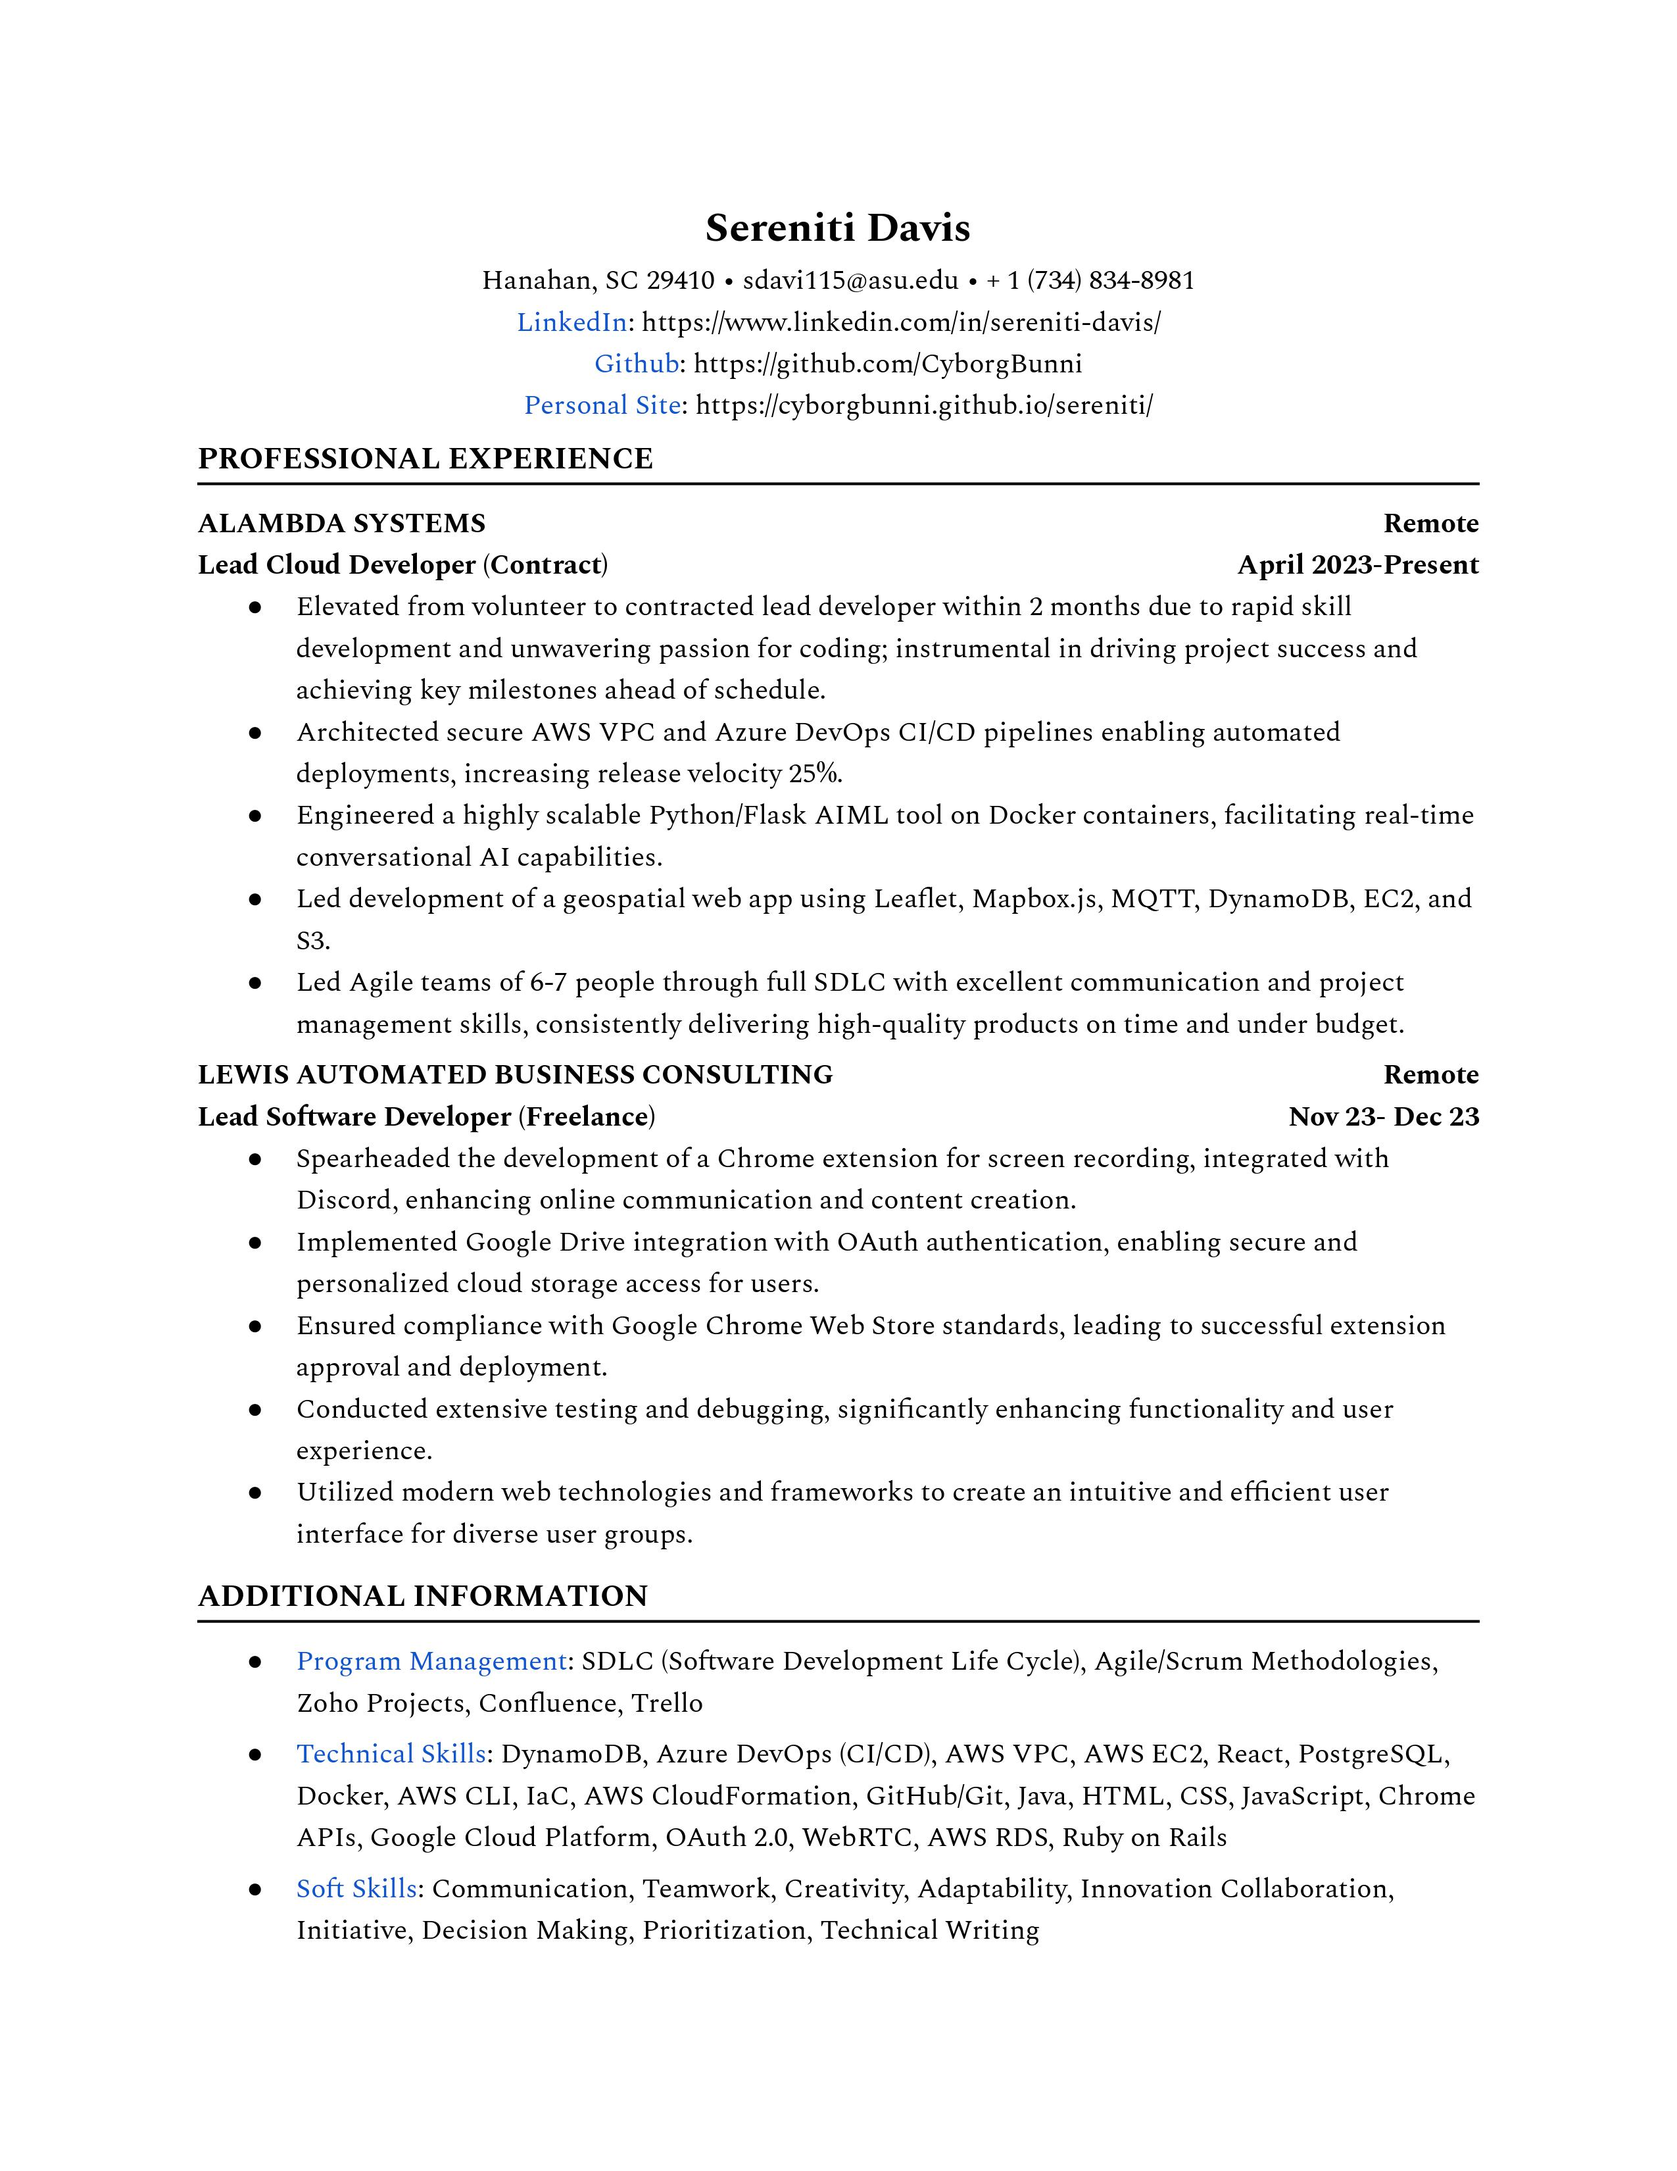
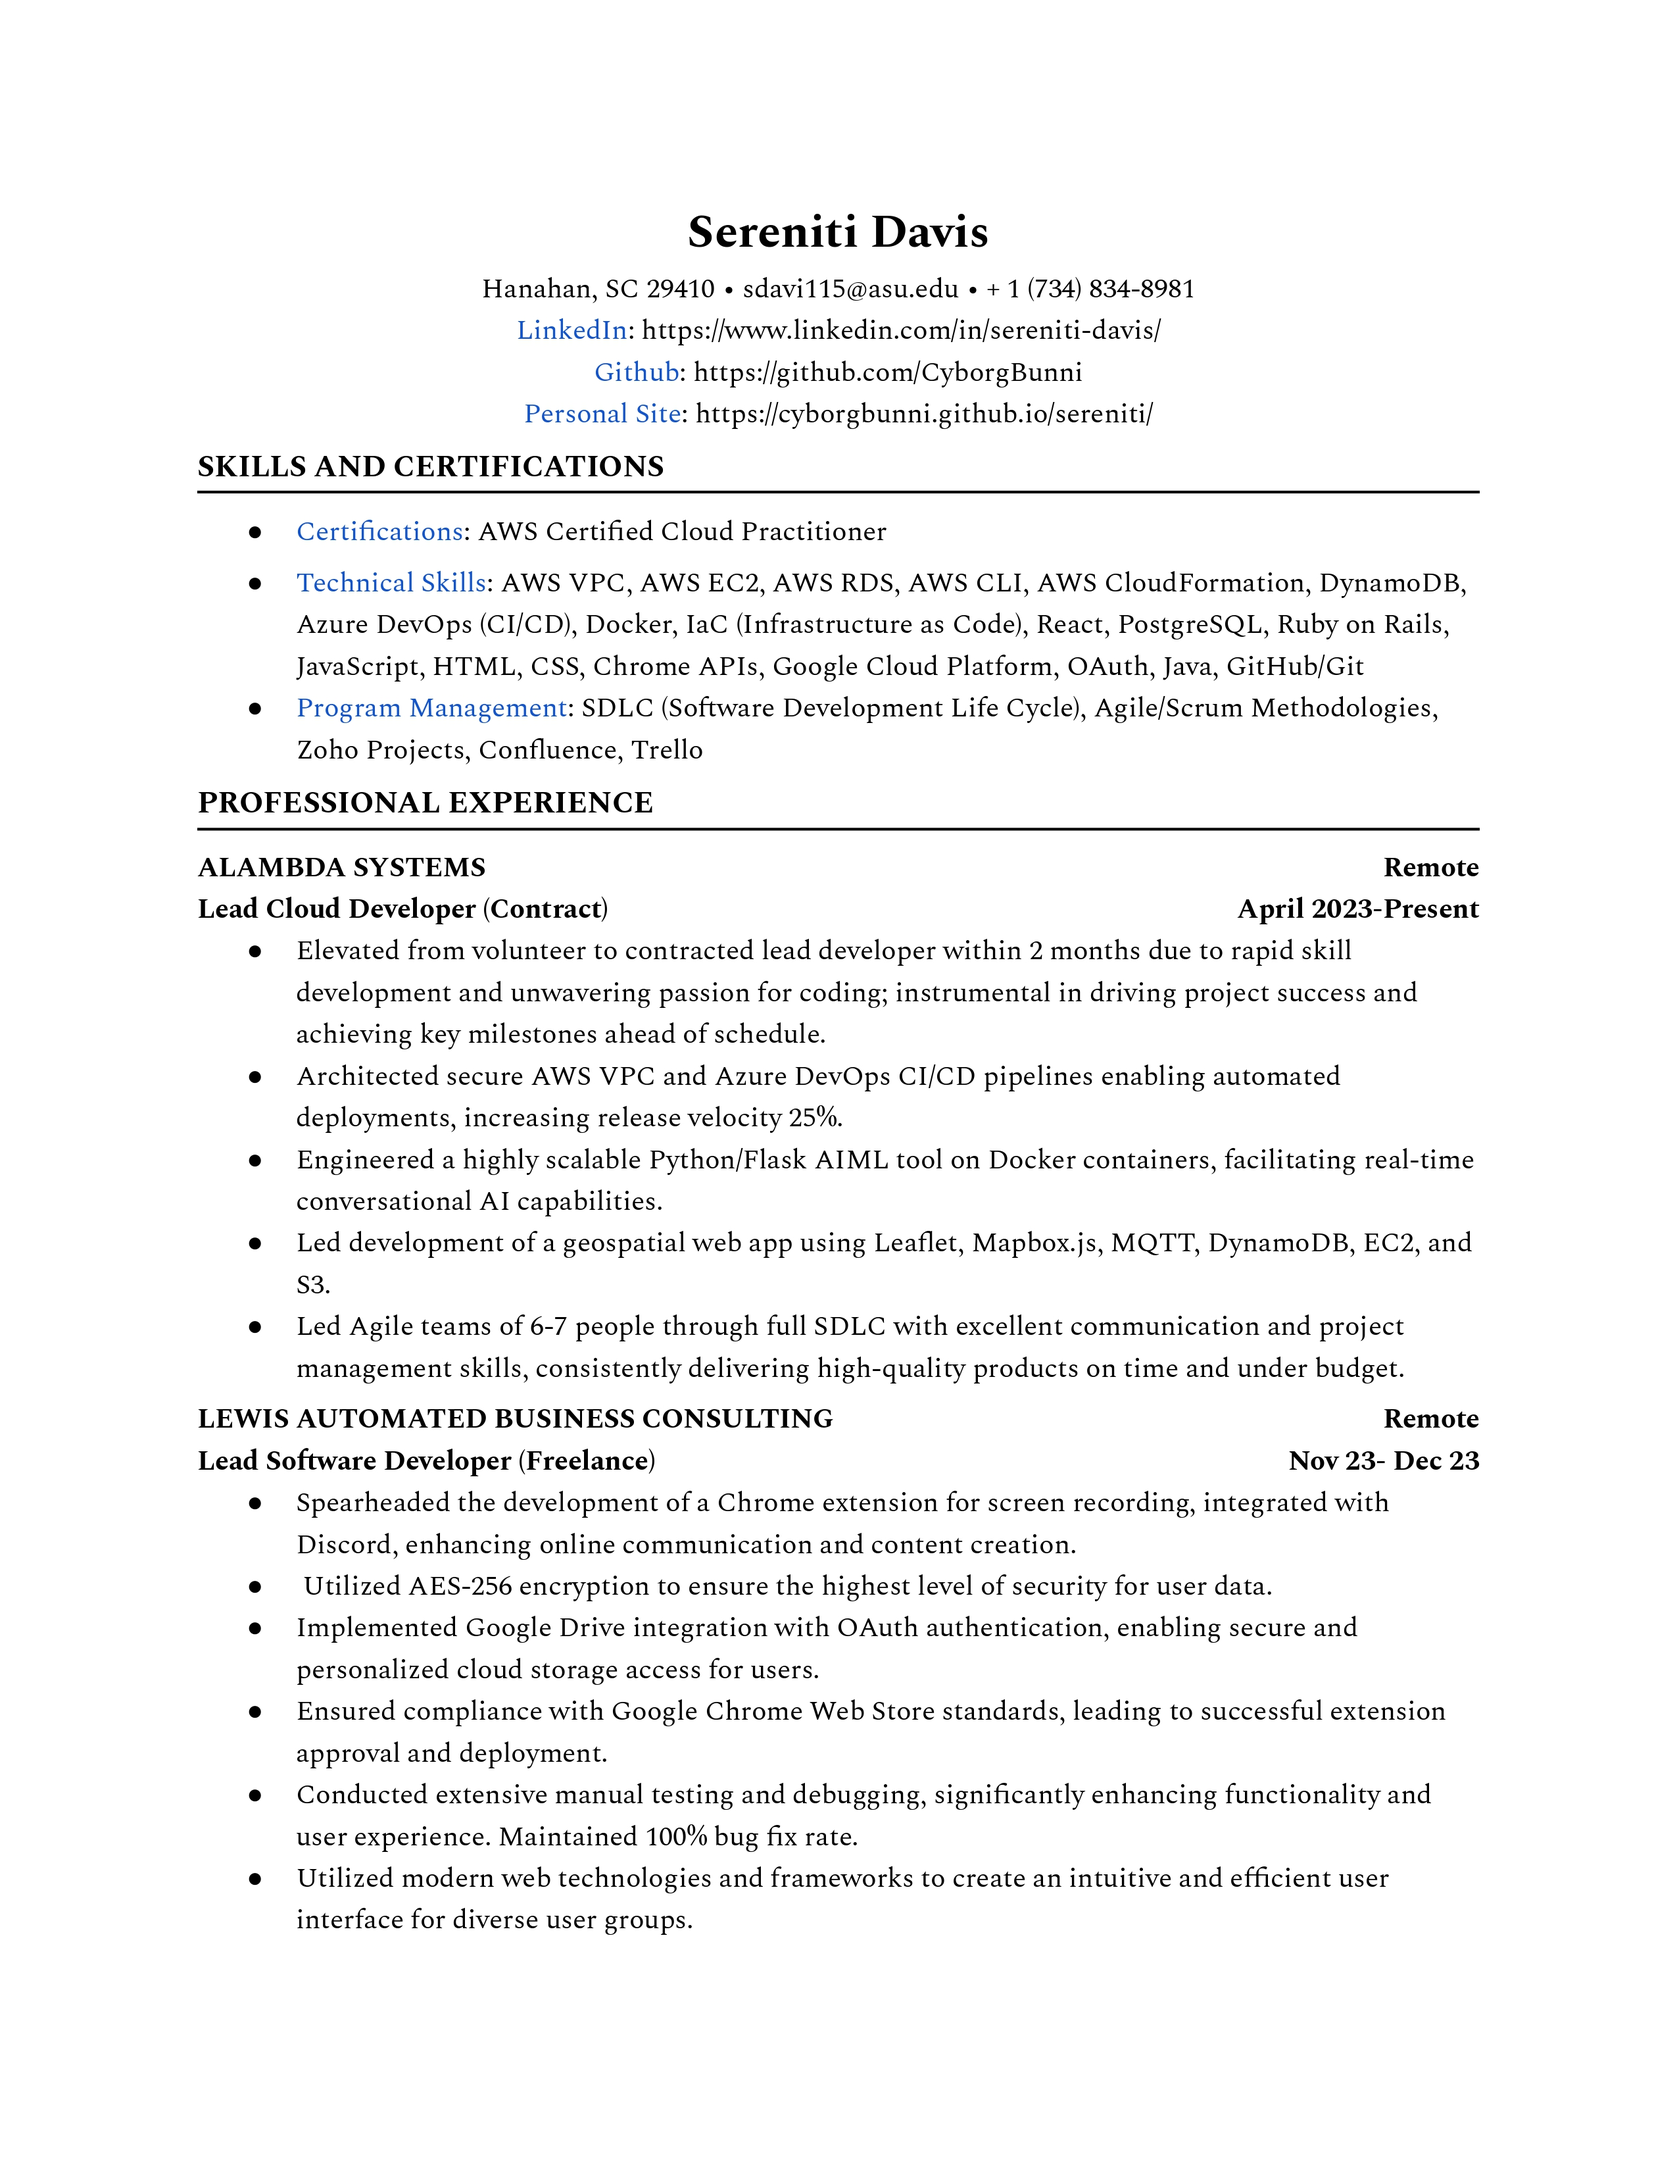
Added certs, updated resume & intro

Changed region(s): [[0.1239, 0.0936, 0.8984, 0.9052]]

diff --git a/index.html b/index.html
@@ -1,9 +1,4 @@
 <!DOCTYPE HTML>
-<!--
-	Dimension by HTML5 UP
-	html5up.net | @ajlkn
-	Free for personal and commercial use under the CCA 3.0 license (html5up.net/license)
--->
 <html>
 	<head>
 		<title>Sereniti Davis</title>
@@ -32,10 +27,10 @@
 						<nav>
 							<ul>
 								<li><a href="#intro">Intro</a></li>
-								<li><a href="#work">Work</a></li>
+								<li><a href="#resume">Resume</a></li>
+								<li><a href="#certifications">Certifications</a></li>
 								<li><a href="#projects">Projects</a></li>
 								<li><a href="#contact">Contact</a></li>
-								<!--<li><a href="#elements">Elements</a></li>-->
 							</ul>
 						</nav>
 					</header>
@@ -45,17 +40,39 @@
 
 						<!-- Intro -->
 							<article id="intro">
-								<h2 class="major">Intro</h2>
+								<h2 class="major">Hello World!</h2>
 								<span class="image main"><img src="images/pic01.jpg" alt="" /></span>
-								<p>I'm an experienced software developer with a strong desire to contribute to the development of cutting-edge next-generation software applications. I am a fast learner who excels in problem-solving and logical thinking. I am eager to learn from my peers, contribute to my team, and tackle challenging problems with motivation and curiosity.</p>
-								<p>I embarked on a career in the technology industry driven by my passion for problem-solving and a natural curiosity for understanding how things work. This field allows me to channel my creative thinking, logical reasoning, and eagerness to continuously learn and build. Beyond my professional endeavors, I find joy in music and exploring the culinary world, honing my skills in cooking and baking. In my leisure time, I indulge in true crime podcasts and captivating storytelling, embracing a sense of intrigue and fascination.</p>
+								<p>Hey there!
+									<br><br>
+									I'm thrilled to introduce myself as a seasoned software developer bursting with enthusiasm to dive into the world of cutting-edge, next-gen software applications. With a knack for problem-solving and logical thinking, I'm always up for a challenge and can't wait to contribute to the ever-evolving tech landscape.
+									<br><br>
+									My journey in the tech realm began fueled by a deep-rooted love for unraveling complex problems and a relentless curiosity about how things tick. It's in this dynamic field that I get to unleash my creative thinking, logical prowess, and insatiable hunger for learning and building cool stuff.
+									<br><br>
+									But hey, life's not all about code and algorithms! Outside of work, you'll find me grooving to some tunes or experimenting in the kitchen, perfecting my culinary creations. Oh, and did I mention my love for horror? There's something about a good scare that gets the adrenaline pumping! And of course, you can't forget about gaming – whether it's surviving a zombie apocalypse or solving puzzles, count me in!
+									<br><br>
+									Now, I'm not just about serious tech talk – I also have a soft spot for corny jokes. Here's one for you:
+									<br><br>
+									<b>Why don't programmers like nature?</b><i> It has too many bugs!</i> 🐛 
+									<br><br>
+									And speaking of bugs, <b>have you heard about the computer that fell out of the tree?</b><i> It had a bad branch prediction!</i> 🌳
+									<br><br>
+									So, if you're passionate about tech, enjoy a good scare, or simply want to swap recipe recommendations and cheesy jokes, I'm all ears! Let's <a href="https://www.linkedin.com/in/sereniti-davis/">connect</a> and make some magic happen together. 😊✨</p>
 							</article>
 
-						<!-- Work -->
-							<article id="work">
+						<!-- Resume -->
+							<article id="resume">
 								<h2 class="major">Resume</h2>
 								<span class="image main"><img src="images/resume.jpg" alt="my resume" /></span>
 							</article>
+
+						<!-- Contact -->
+						<article id="certifications">
+							<h2 class="major">My Certs</h2>
+							<section>
+								<div data-iframe-width="150" data-iframe-height="290" data-share-badge-id="4364d151-2b8e-4290-a7cc-d6a4482af822" data-share-badge-host="https://www.credly.com"></div>
+							</section>
+							<script type="text/javascript" async src="//cdn.credly.com/assets/utilities/embed.js"></script>
+						</article>
 
 						<!-- Projects -->
 						<article id="projects">
@@ -136,7 +153,7 @@ print 'It took ' + i + ' iterations to sort the deck.';</code></pre>
 
 				<!-- Footer -->
 					<footer id="footer">
-						<p class="copyright">&copy; Serenti Davis. Design: <a href="https://html5up.net">HTML5 UP</a>.</p>
+						<p class="copyright">&copy; Serenti Davis</a></p>
 					</footer>
 
 			</div>
